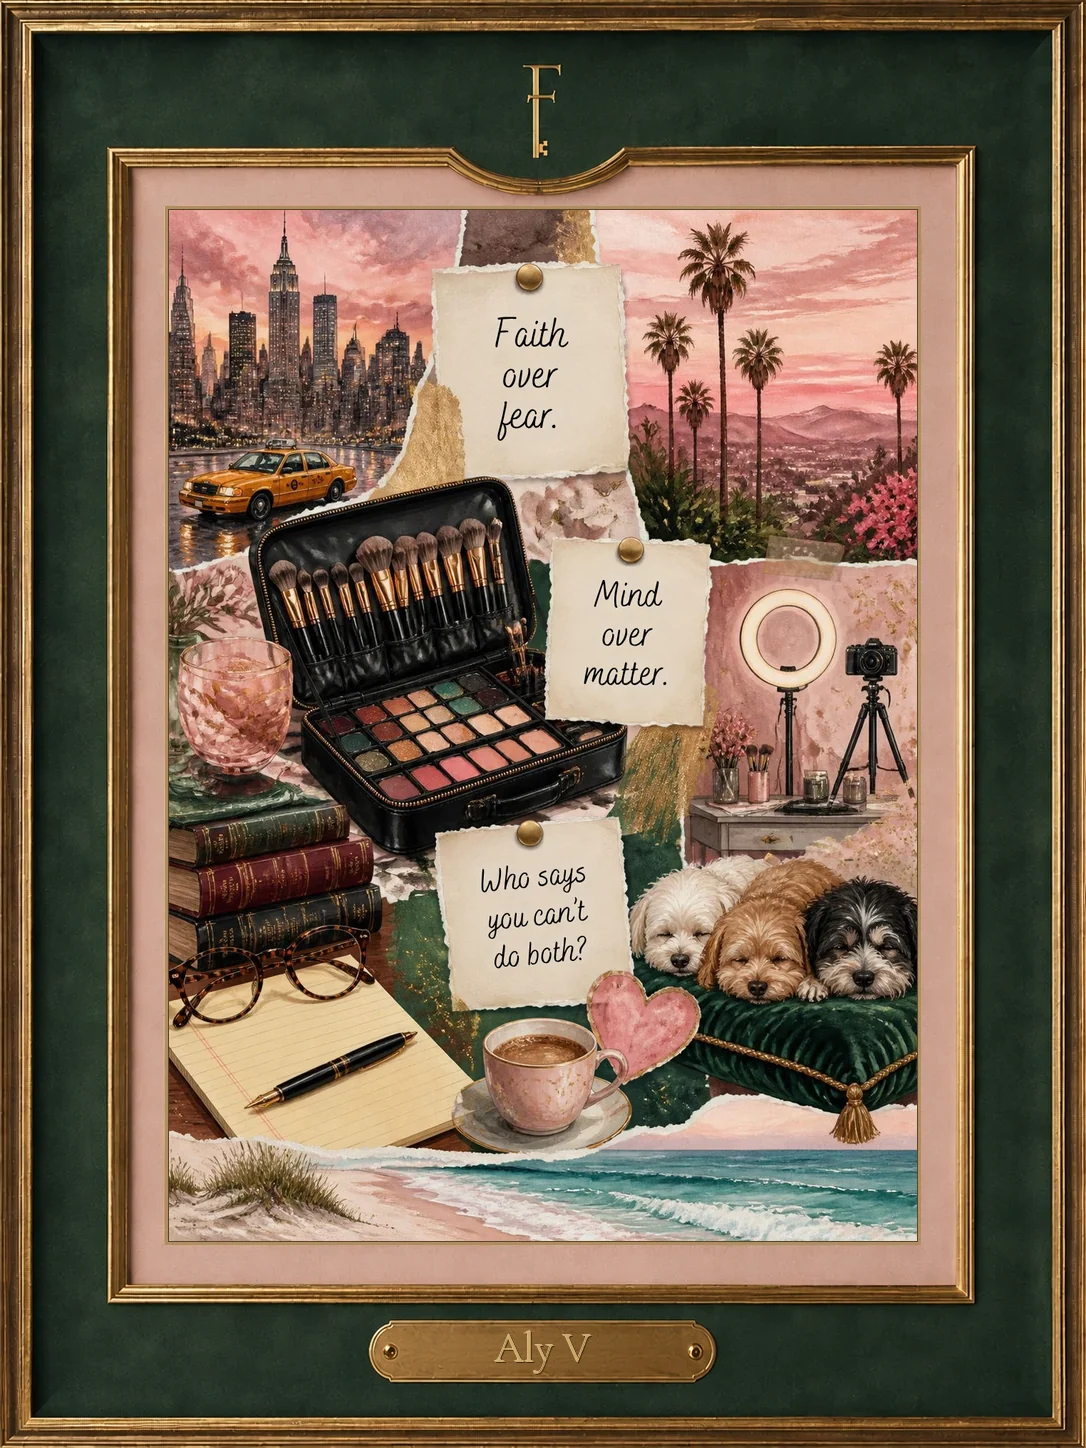
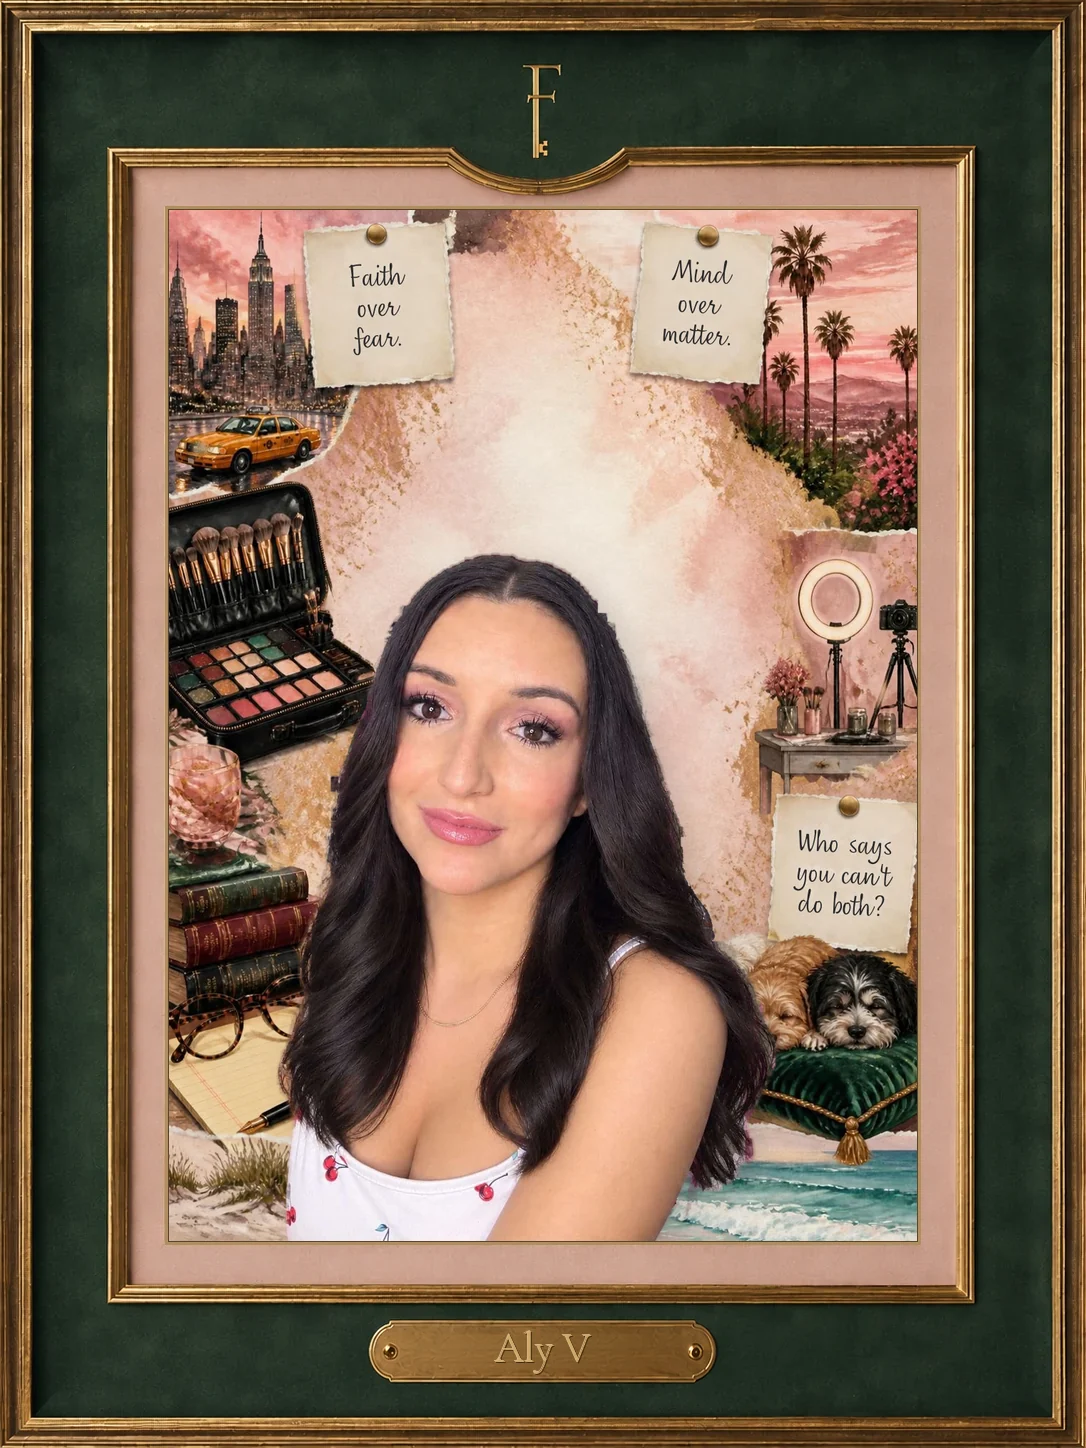
FOUND HER: Aly V's own photo in her frame, against her vision board
Her photograph is untouched; only the room behind her changed — her
studio shelf is replaced by the board painted for her story, recomposed
with a clear centre. New alt text and note.

Claude-Session: https://claude.ai/code/session_01UHywWBWijeakrXVtxrivXX

diff --git a/src/lib/profiles.ts b/src/lib/profiles.ts
@@ -253,9 +253,15 @@ export const profiles: FoundHerProfile[] = [
     location: "Pensacola, Florida",
     portrait: {
       src: "/editorial/aly-v-frame.webp",
-      alt: "A framed collage for Aly V: a watercolour vision board \u2014 the New York skyline at dusk, palm trees and pink hills in Los Angeles, an open makeup kit with brushes and palettes, a ring light and camera, a stack of law books with a fountain pen, three small dogs asleep on a velvet cushion, and handwritten notes reading \u201cFaith over fear\u201d, \u201cMind over matter\u201d and \u201cWho says you can\u2019t do both?\u201d \u2014 in a carved green-and-gold frame with a brass nameplate carrying her name.",
+      /* Her own photograph, which she sent with her story on 28 Sept 2026.
+         She is untouched — same face, same light, same colour. Only the
+         room behind her changed: her studio shelf (other brands' boxes and
+         a neon sign) was cut away and the vision board painted for her
+         story set in its place, in the house frame with her nameplate. */
+      alt: "Aly V, smiling, her long dark hair over her shoulders, in a white top with cherries \u2014 her own photograph, set in front of a watercolour vision board painted for her story: the New York skyline, palm trees in Los Angeles, an open makeup kit, a ring light and camera, law books, sleeping dogs on a velvet cushion, and handwritten notes reading \u201cFaith over fear\u201d, \u201cMind over matter\u201d and \u201cWho says you can\u2019t do both?\u201d \u2014 in a carved green-and-gold frame with a brass nameplate carrying her name.",
       aspect: "3 / 4",
-      note: "There\u2019s no one in the frame \u2014 it\u2019s a painting we put together from her story.",
+      position: "50% 42%",
+      note: "Aly\u2019s own photograph, set against a painting we made from her story.",
     },
     building: "MakeupGemz \u2014 makeup and beauty on Instagram, Whatnot and Skool. Next, a law degree.",
     tagline: "Faith over fear. Who says you can\u2019t do both?",

diff --git a/WORKLOG.md b/WORKLOG.md
@@ -1520,3 +1520,24 @@ college", "a relatable IG page", "live-streaming" as she hyphenates it.
 The approval draft in Shelby's Gmail was replaced with one that no longer
 mentions the ellipsis. Verified: tsc, eslint, build, /found-her/aly-v at
 1440 and 390. Committed, unpushed.
+
+## 2026-09-28 (evening) · Claude (Cowork) — Aly V: her own photograph in the frame
+
+Aly sent a photo to go with her story. Shelby: keep the woman exactly as
+she is, and put her in front of the vision-board concept.
+- Cut out with rembg isnet-general-use, then cleaned by hand in code: the
+  chair's cushion and shadow by her right shoulder, the pink chair spill
+  and the neon-sign fringe in her hair, a speck of the sign at her left.
+  Her face, skin, make-up and clothes are not retouched or recoloured —
+  the cherries on her top stayed red (an early de-spill pass darkened them
+  and was corrected). The other brands' boxes on her shelf are gone with
+  the background.
+- The backdrop is a second Canva render of the same board, recomposed with
+  every element around the edges and a clear blush centre so she stands in
+  it rather than over the notes. She is bottom-aligned at 78%, with a soft
+  warm contact shadow; the result sits in the same house frame and "Aly V"
+  plate as before. public/editorial/aly-v-frame.webp replaced.
+- Record: new alt text and note ("Aly's own photograph, set against a
+  painting we made from her story"), position 50% 42% for the wall crop.
+- Verified: build; /found-her and /found-her/aly-v at 1440 and 390.
+  Committed, unpushed.
